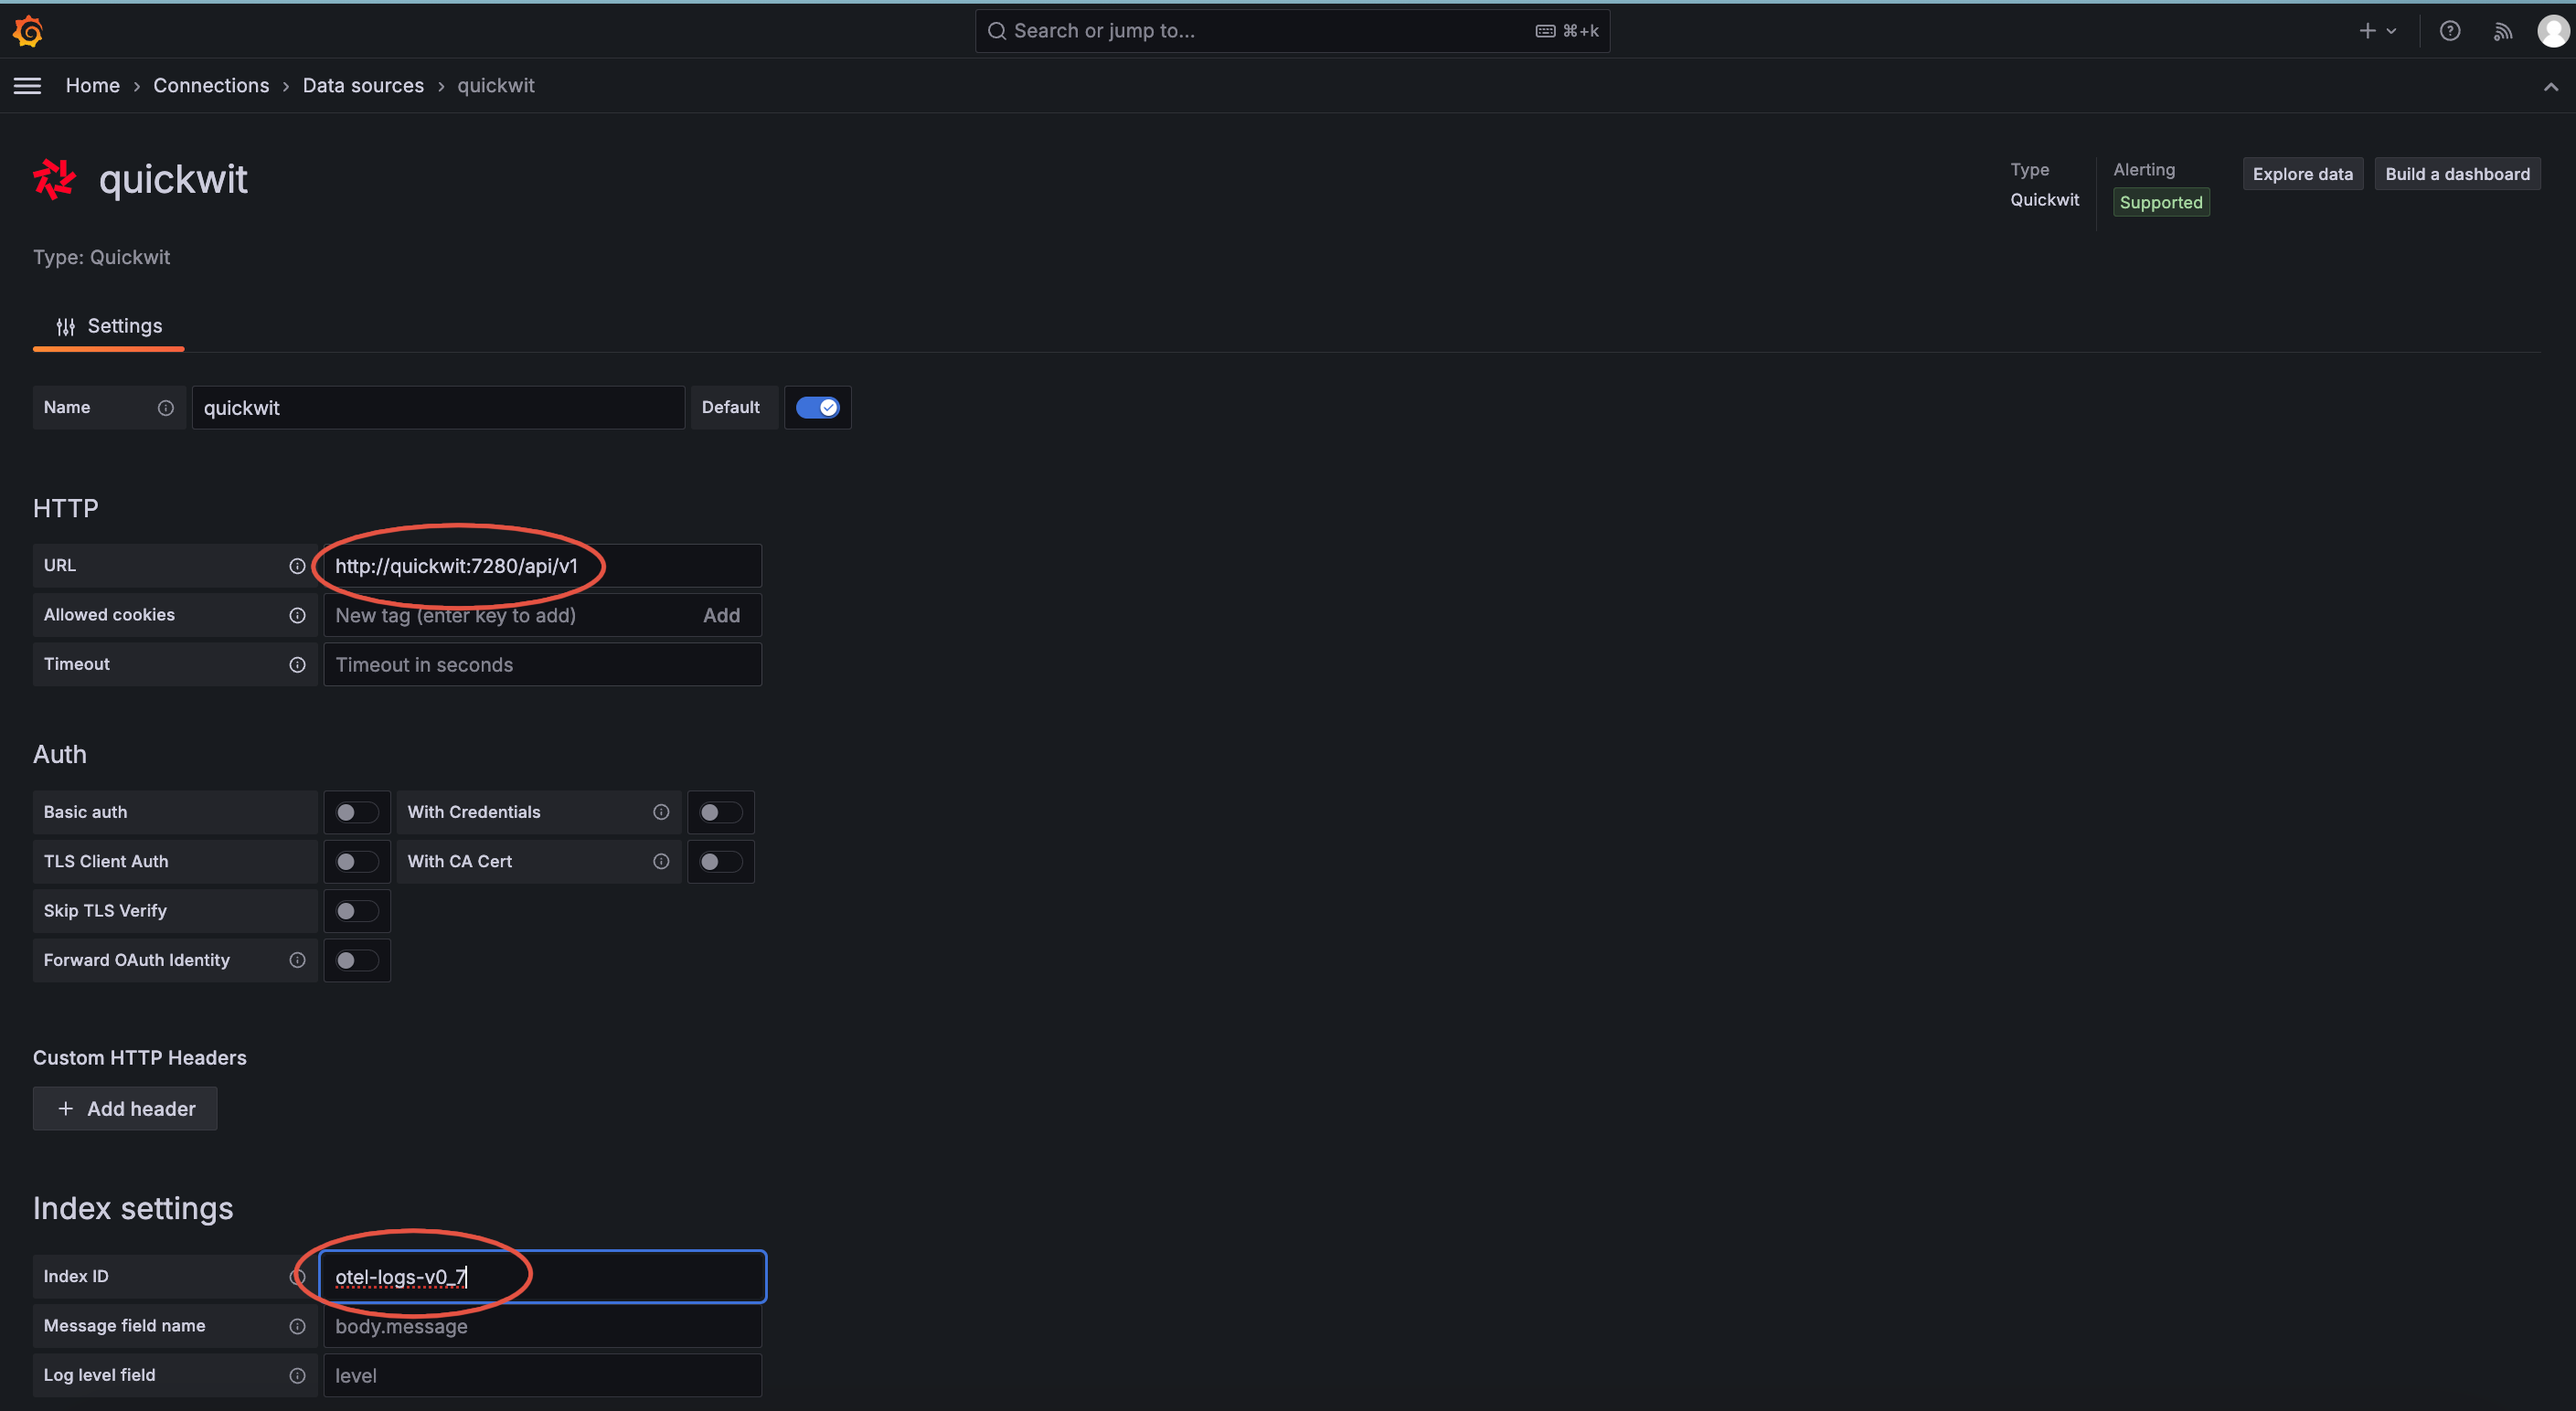
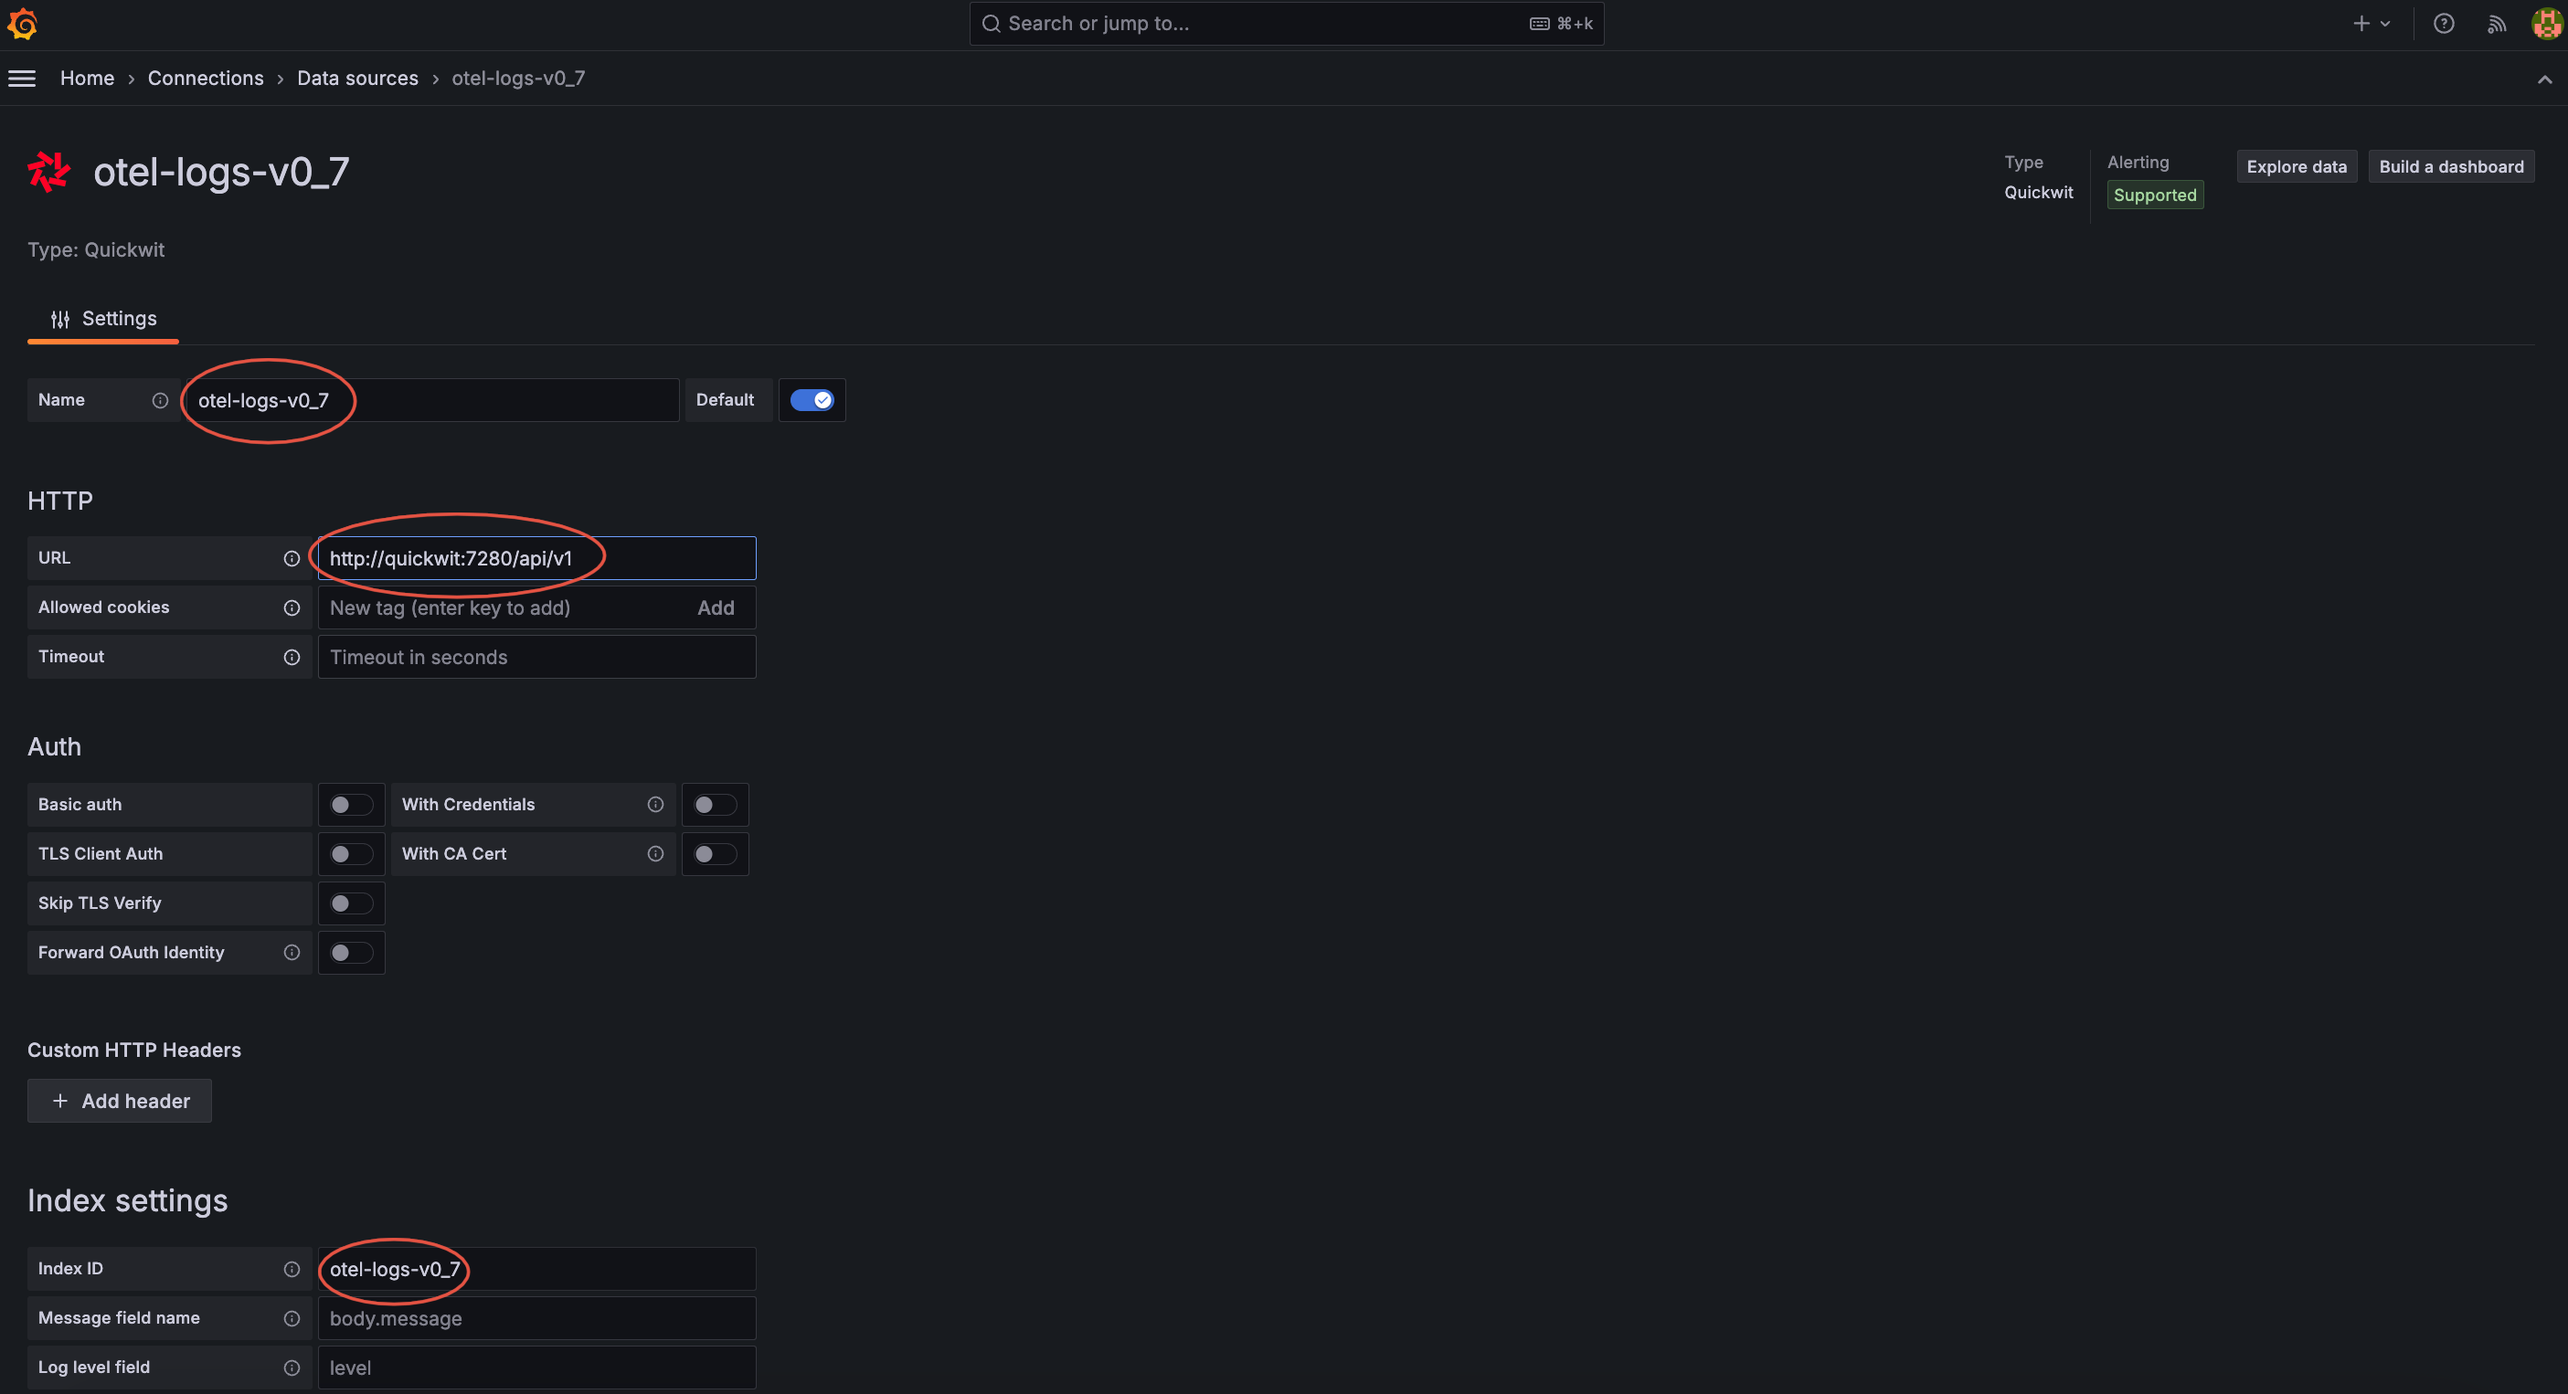
Quickwit

diff --git a/translations/fr/tutorials/quickwit.md b/translations/fr/tutorials/quickwit.md
@@ -32,6 +32,25 @@ Les identifiants par défaut sont les suivants :
 
 Ensuite il vous sera demandé de les changer donc n'oubliez pas de retenir ce que vous allez choisir en lieu sûr !
 
+## Problème de résolution DNS avec Grafana
+
+Si vous recontrez des problèmes de connexions avec Grafana:
+* Connectez-vous [avec ssh](./ssh.md)
+* Vérifiez si vous avez des erreurs DNS dans le conteneur :
+
+```shell
+$ docker logs grafana -f
+Error: ✗ failed to download plugin archive: Get "https://github.com/quickwit-oss/quickwit-datasource/releases/download/v0.4.5/quickwit-quickwit-datasource-0.4.5.zip": dial tcp: lookup github.com on 127.0.0.11:53: read udp 127.0.0.1:43845->127.0.0.11:53: i/o timeout
+```
+
+* Dans ce cas, il faut ajouter le flag suivant désactivé, dans le fichier `env/{env_name}.yml` :
+
+```yaml
+docker_disable_iptables: false
+```
+
+* Pushez, attendez que Grafana soit opérationnel et faites un retour arrière sur cette modification
+
 ## Changer de mot de passe
 
 Vous pouvez changer votre mot de passe dans le fichier `env/{env_name}.yml` :
@@ -51,6 +70,29 @@ htpasswd -c .htpasswd.tmp quickwit
 cat .htpasswd.tmp | cut -d ":" -f2 # copier la sortie de passwd
 rm -rf .htpasswd.tmp
 ```
+
+## Changer le stockage avec de l'object storage
+
+Pour demander de l'object storage, consultez [cette page](../../../storage.md) pour avoir plus d'informations.
+
+Supposons que vous ayez le bucket suivant :
+
+![cwcloud_quickwit_bucket](../../../img/cwcloud_quickwit_bucket.png)
+
+Avec cet endpoint sur Scaleway : `https://qw-indexes-wmb0pz.s3.fr-par.scw.cloud`
+
+L'endpoint devra être traduit de la façon suivante : `s3://qw-indexes-wmb0pz?endpoint=s3.fr-par.scw.cloud`
+
+Remplissez ces variables dans le fichier `env/{env_name}.yml` :
+
+```yaml
+quickwit_bucket_access_key_id: access_key_id_value
+secret_access_key: secret_key_id_value
+region: fr-par
+endpoint: s3://qw-indexes-wmb0pz?endpoint=s3.fr-par.scw.cloud
+```
+
+Remplacer `access_key_id_value` et `secret_key_id_value` avec les identifiants que vous aurez généré dans votre _IAM_ (_Identity Access Management_).
 
 ## Grafana datasource pour les logs
 
@@ -72,6 +114,7 @@ Ensuite remplir le formulaire :
 
 ![grafana_qw_ds_form](../../../img/grafana_qw_ds_form.png)
 
+* Name: `otel-logs-v0_7`
 * URL: `http://quickwit:7280/api/v1`
 * Index ID: `otel-logs-v0_7`
 

diff --git a/tutorials/quickwit.md b/tutorials/quickwit.md
@@ -32,6 +32,25 @@ The default grafana credentials are:
 
 Then, you'll be asked to change-it, don't forget to remember-it somewhere safe!
 
+## DNS issue with Grafana
+
+If you have some issue to connect with grafana:
+* Connect [with ssh](./ssh.md)
+* Check if you have DNS issues in the logs of the grafana container:
+
+```shell
+$ docker logs grafana -f
+Error: ✗ failed to download plugin archive: Get "https://github.com/quickwit-oss/quickwit-datasource/releases/download/v0.4.5/quickwit-quickwit-datasource-0.4.5.zip": dial tcp: lookup github.com on 127.0.0.11:53: read udp 127.0.0.1:43845->127.0.0.11:53: i/o timeout
+```
+
+* In this case, enable docker iptables by disabling this flag in the `env/{env_name}.yml` file:
+
+```yaml
+docker_disable_iptables: false
+```
+
+* Then push and wait until Grafana's back. Then revert your previous change
+
 ## Update your password
 
 You can change your password in the `env/{env_name}.yml` file:
@@ -51,6 +70,29 @@ htpasswd -c .htpasswd.tmp quickwit
 cat .htpasswd.tmp | cut -d ":" -f2 # copy the output as passwd
 rm -rf .htpasswd.tmp
 ```
+
+## Change storage to object storage
+
+Ask for storage, see [this page](../storage.md) to get more informations.
+
+Let's suppose you have this bucket created:
+
+![cwcloud_quickwit_bucket](../img/cwcloud_quickwit_bucket.png)
+
+With this endpoint on Scaleway: `https://qw-indexes-wmb0pz.s3.fr-par.scw.cloud`
+
+The endpoint will have to be translated like this in the configuration: `s3://qw-indexes-wmb0pz?endpoint=s3.fr-par.scw.cloud`
+
+Fill this variables in the `env/{env_name}.yml` file:
+
+```yaml
+quickwit_bucket_access_key_id: access_key_id_value
+secret_access_key: secret_key_id_value
+region: fr-par
+endpoint: s3://qw-indexes-wmb0pz?endpoint=s3.fr-par.scw.cloud
+```
+
+Replace `access_key_id_value` and `secret_key_id_value` with credentials you'll have generated in your _IAM_ (_Identity Access Management_).
 
 ## Grafana datasource for logs
 
@@ -72,6 +114,7 @@ Then fill the form:
 
 ![grafana_qw_ds_form](../img/grafana_qw_ds_form.png)
 
+* Name: `otel-logs-v0_7`
 * URL: `http://quickwit:7280/api/v1`
 * Index ID: `otel-logs-v0_7`
 
